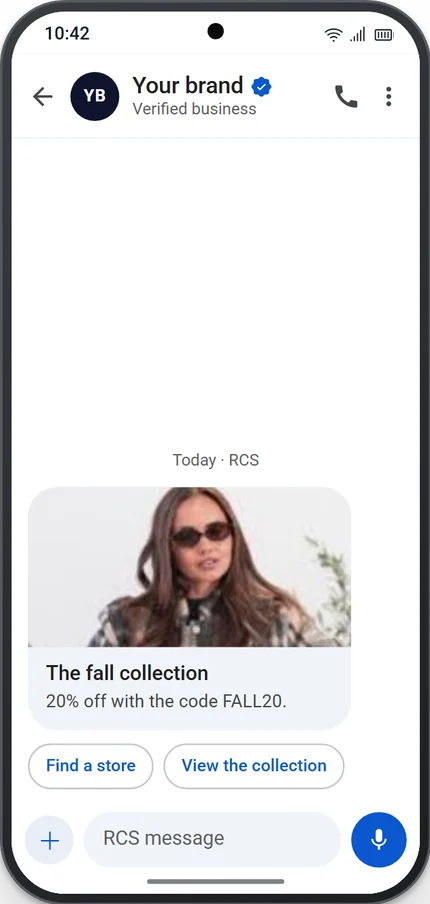
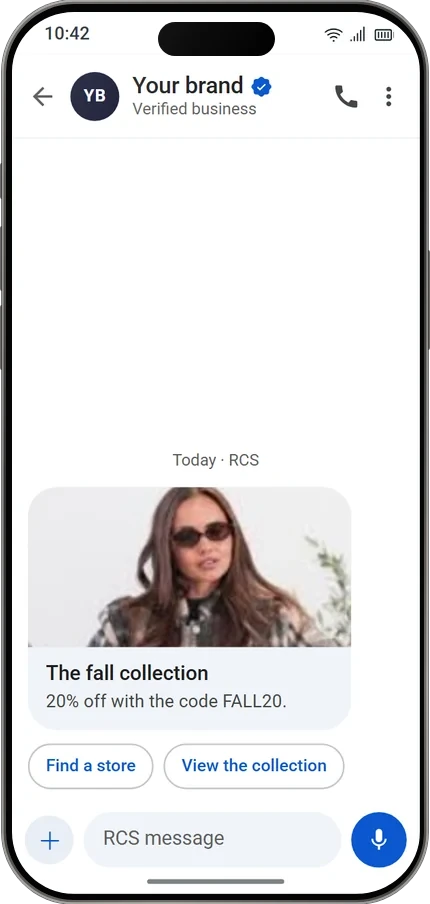
feat(vitrine): de vrais iPhone sur les pages fonctionnalités, une vraie fenêtre Claude Code
Deux retours de Julien.

Les téléphones des pages fonctionnalités, des images à plat au cadre générique,
deviennent les iPhone de la une de l'accueil : châssis en titane, bordure noire,
îlot, boutons, reflet, et la même légère 3D (rotate, jamais transform). Le cadre
est dessiné sur l'image sans déplacer l'écran, donc les gestes « 1 clic » restent
justes ; une figure qui porte un geste tourne en entier. Vingt-deux images,
français et anglais ; ?v=2 côté français.

La fenêtre Claude Code de la page développeurs n'est plus bleue : barre grise
de macOS, thème sombre de Claude Code, mascotte orange, appels
« messagingme - <outil> (MCP)(…) » et réponses JSON réelles du serveur, relevées
dans src/mcp/, tronquées par « … +N lines (ctrl+o to expand) », champ de saisie
et mode « accept edits ». Elle défile comme un terminal. Français et anglais.

Vérifié à 1440 et 390 px ; les tests de la vitrine passent (138), les pages
anglaises générées par npm run vitrine:anglais.

Changed region(s): [[0.0, 0.0, 1.0, 1.0], [0.1512, 0.0619, 0.2419, 0.1239]]

diff --git a/site/developpeurs/index.html b/site/developpeurs/index.html
@@ -179,20 +179,27 @@
          update_agent et set_agent_tools). La balise a la forme exacte que rend le produit. tests/vitrine-developpeurs.test.ts
          le vérifie. -->
     <figure class="dev-terminal" aria-label="Exemple : dans Claude Code, une seule demande crée l’agent IA, lui fait lire le site, en fait le répondeur WhatsApp et crée la bulle à coller sur le site.">
-      <div class="dev-terminal-barre" aria-hidden="true"><i></i><i></i><i></i><span>Claude Code</span></div>
-      <ol class="dev-seance" aria-hidden="true">
-        <li class="dev-demande" style="--t:.3s"><span class="dev-invite">&gt;</span><span data-commande-terminal="demarrage">/messagingme:demarrer</span></li>
-        <li class="dev-appel" style="--t:1.1s"><span class="dev-puce">●</span><span>messagingme · <b data-outil="get_setup_state">get_setup_state</b></span><small>Numéro connecté. Étape suivante : l’agent IA</small></li>
-        <li class="dev-appel" style="--t:1.9s"><span class="dev-puce">●</span><span>messagingme · <b data-outil="create_agent">create_agent</b></span><small>Agent « Accueil » créé</small></li>
-        <li class="dev-appel" style="--t:2.7s"><span class="dev-puce">●</span><span>messagingme · <b data-outil="import_site">import_site</b></span><small>monsite.fr : 14 pages lues</small></li>
-        <li class="dev-appel" style="--t:3.5s"><span class="dev-puce">●</span><span>messagingme · <b data-outil="update_agent">update_agent</b></span><small>Objectif, transferts et règle d’arrêt posés</small></li>
-        <li class="dev-appel" style="--t:4.3s"><span class="dev-puce">●</span><span>messagingme · <b data-outil="set_agent_tools">set_agent_tools</b></span><small>Recherche dans la connaissance activée</small></li>
-        <li class="dev-appel" style="--t:5.1s"><span class="dev-puce">●</span><span>messagingme · <b data-outil="activate_agent">activate_agent</b></span><small>Agent activé</small></li>
-        <li class="dev-appel" style="--t:5.9s"><span class="dev-puce">●</span><span>messagingme · <b data-outil="set_default_responder">set_default_responder</b></span><small>L’agent répond sur WhatsApp</small></li>
-        <li class="dev-appel" style="--t:6.7s"><span class="dev-puce">●</span><span>messagingme · <b data-outil="create_widget">create_widget</b></span><small>Bulle créée</small></li>
-        <li class="dev-reponse" style="--t:7.7s">C’est en place. Collez cette balise avant <code>&lt;/body&gt;</code>&nbsp;:</li>
-        <li class="dev-balise" style="--t:8.3s"><code data-balise="widget">&lt;script src="https://api.messagingme.app/widget/k7m2p9xq4r8t.js" async&gt;&lt;/script&gt;</code></li>
+      <div class="cc-barre" aria-hidden="true"><i></i><i></i><i></i><span>✳ Claude Code</span></div>
+      <div class="cc-ecran" aria-hidden="true">
+        <div class="cc-fil">
+      <ol class="dev-seance">
+        <li class="cc-tete" style="--t:0s"><span class="l"><span class="cc-c"> ▐▛███▜▌</span>   <b>Claude Code</b> <span class="cc-g">v2.1.300</span></span><span class="l"><span class="cc-c">▝▜█████▛▘</span>  <span class="cc-g">Opus 5.5 · Claude Max</span></span><span class="l"><span class="cc-c">  ▘▘ ▝▝</span>    <span class="cc-g">~/monsite</span></span></li>
+        <li class="cc-saisi" style="--t:.3s"><span class="l">&gt; <span data-commande-terminal="demarrage">/messagingme:demarrer</span></span></li>
+        <li class="cc-appel" style="--t:1.1s"><span class="l p"><span class="cc-puce">●</span><b>messagingme - <span data-outil="get_setup_state">get_setup_state</span></b> (MCP)</span><span class="l cc-g">  ⎿  {</span><span class="l cc-g">       "offre": "free",</span><span class="l cc-g">       "credit_eur": 1,</span><span class="l cc-g">     … +27 lines (ctrl+o to expand)</span></li>
+        <li class="cc-texte" style="--t:1.8s"><span class="l p"><span class="cc-puce cc-blanc">●</span>Votre numéro est connecté. Je crée l’agent IA qui répondra à vos clients, puis je lui fais lire votre site.</span></li>
+        <li class="cc-appel" style="--t:2.5s"><span class="l p"><span class="cc-puce">●</span><b>messagingme - <span data-outil="create_agent">create_agent</span></b> (MCP)(label: "Accueil")</span><span class="l cc-g">  ⎿  {</span><span class="l cc-g">       "agent": {</span><span class="l cc-g">         "id": "3f6b2c1e-8a4d-4f7b-9c2e-5d1a7e9b0c43",</span><span class="l cc-g">     … +14 lines (ctrl+o to expand)</span></li>
+        <li class="cc-appel" style="--t:3.3s"><span class="l p"><span class="cc-puce">●</span><b>messagingme - <span data-outil="import_site">import_site</span></b> (MCP)(agent_id: "3f6b2c1e-8a4d-4f7b-9c2e-5d1a7e9b0c43", url: "https://monsite.fr")</span><span class="l cc-g">  ⎿  {</span><span class="l cc-g">       "url": "https://monsite.fr/",</span><span class="l cc-g">       "ecrites": 12,</span><span class="l cc-g">     … +9 lines (ctrl+o to expand)</span></li>
+        <li class="cc-texte" style="--t:4.0s"><span class="l p"><span class="cc-puce cc-blanc">●</span>12 fiches écrites depuis votre site. Je règle l’objectif, le ton et les transferts, puis je l’active.</span></li>
+        <li class="cc-appel" style="--t:4.7s"><span class="l p"><span class="cc-puce">●</span><b>messagingme - <span data-outil="update_agent">update_agent</span></b> (MCP)(agent_id: "3f6b2c1e-8a4d-4f7b-9c2e-5d1a7e9b0c43", objectif: "Répondre aux clients de monsite.fr sur les services, les tarifs et les horaires, à partir des informations du site.", ton: "Vouvoiement, chaleureux et concis : deux ou trois phrases par réponse.", reglesTransfert: "Passer la main à un conseiller pour un devis personnalisé, une réclamation, ou dès que le client le demande.", sorties: [{"code":"question_resolue","label":"Question résolue"}])</span><span class="l cc-g">  ⎿  {</span><span class="l cc-g">       "agent": {</span><span class="l cc-g">         "id": "3f6b2c1e-8a4d-4f7b-9c2e-5d1a7e9b0c43",</span><span class="l cc-g">     … +19 lines (ctrl+o to expand)</span></li>
+        <li class="cc-appel" style="--t:5.5s"><span class="l p"><span class="cc-puce">●</span><b>messagingme - <span data-outil="set_agent_tools">set_agent_tools</span></b> (MCP)(agent_id: "3f6b2c1e-8a4d-4f7b-9c2e-5d1a7e9b0c43", outils: ["chercher_connaissance","escalader"])</span><span class="l cc-g">  ⎿  {</span><span class="l cc-g">       "outils": [</span><span class="l cc-g">         {</span><span class="l cc-g">     … +11 lines (ctrl+o to expand)</span></li>
+        <li class="cc-appel" style="--t:6.2s"><span class="l p"><span class="cc-puce">●</span><b>messagingme - <span data-outil="activate_agent">activate_agent</span></b> (MCP)(agent_id: "3f6b2c1e-8a4d-4f7b-9c2e-5d1a7e9b0c43", active: true)</span><span class="l cc-g">  ⎿  {</span><span class="l cc-g">       "agent": {</span><span class="l cc-g">         "id": "3f6b2c1e-8a4d-4f7b-9c2e-5d1a7e9b0c43",</span><span class="l cc-g">     … +19 lines (ctrl+o to expand)</span></li>
+        <li class="cc-appel" style="--t:6.9s"><span class="l p"><span class="cc-puce">●</span><b>messagingme - <span data-outil="set_default_responder">set_default_responder</span></b> (MCP)(mode: "agent", agent_id: "3f6b2c1e-8a4d-4f7b-9c2e-5d1a7e9b0c43")</span><span class="l cc-g">  ⎿  {</span><span class="l cc-g">       "mode": "agent",</span><span class="l cc-g">       "agent_id": "3f6b2c1e-8a4d-4f7b-9c2e-5d1a7e9b0c43",</span><span class="l cc-g">     … +10 lines (ctrl+o to expand)</span></li>
+        <li class="cc-appel" style="--t:7.6s"><span class="l p"><span class="cc-puce">●</span><b>messagingme - <span data-outil="create_widget">create_widget</span></b> (MCP)(nom: "Bulle WhatsApp monsite.fr", phrase: "Bonjour, je viens du site monsite.fr")</span><span class="l cc-g">  ⎿  {</span><span class="l cc-g">       "widget": {</span><span class="l cc-g">         "id": "b81e4d27-5c3a-4e9f-a6d0-2f7c9e1b8a54",</span><span class="l cc-g">     … +20 lines (ctrl+o to expand)</span></li>
+        <li class="cc-texte" style="--t:8.5s"><span class="l p"><span class="cc-puce cc-blanc">●</span>C’est en place : l’agent « Accueil » répond sur WhatsApp. Collez cette balise avant <span class="cc-code">&lt;/body&gt;</span> :</span><span class="l cc-code cc-balise" data-balise="widget">&lt;script src="https://api.messagingme.app/widget/k7m2p9xq4r8t.js" async&gt;&lt;/script&gt;</span></li>
       </ol>
+        </div>
+        <div class="cc-bas"><span class="l cc-spin">✻ Cogitating… <span class="cc-g">(esc to interrupt)</span></span><span class="cc-trait"></span><span class="l">&gt; <span class="cc-curseur"></span></span><span class="cc-trait"></span><span class="l"><span class="cc-mode">  ⏵⏵ accept edits on</span> <span class="cc-g">(shift+tab to cycle)</span></span></div>
+      </div>
     </figure>
   </section>
 

diff --git a/site/en/developers/index.html b/site/en/developers/index.html
@@ -178,20 +178,27 @@
          an active tool), and the tag has the exact shape the product returns: tests/vitrine-developpeurs.test.ts checks
          it, as on the French page. -->
     <figure class="dev-terminal" aria-label="Example: in Claude Code, a single request creates the AI agent, has it read the site, makes it the WhatsApp responder and creates the bubble to paste on the site.">
-      <div class="dev-terminal-barre" aria-hidden="true"><i></i><i></i><i></i><span>Claude Code</span></div>
-      <ol class="dev-seance" aria-hidden="true">
-        <li class="dev-demande" style="--t:.3s"><span class="dev-invite">&gt;</span><span data-commande-terminal="demarrage">/messagingme:demarrer</span></li>
-        <li class="dev-appel" style="--t:1.1s"><span class="dev-puce">●</span><span>messagingme · <b data-outil="get_setup_state">get_setup_state</b></span><small>Number connected. Next step: the AI agent</small></li>
-        <li class="dev-appel" style="--t:1.9s"><span class="dev-puce">●</span><span>messagingme · <b data-outil="create_agent">create_agent</b></span><small>Agent “Welcome” created</small></li>
-        <li class="dev-appel" style="--t:2.7s"><span class="dev-puce">●</span><span>messagingme · <b data-outil="import_site">import_site</b></span><small>mysite.com: 14 pages read</small></li>
-        <li class="dev-appel" style="--t:3.5s"><span class="dev-puce">●</span><span>messagingme · <b data-outil="update_agent">update_agent</b></span><small>Goal, handoffs and stop rule set</small></li>
-        <li class="dev-appel" style="--t:4.3s"><span class="dev-puce">●</span><span>messagingme · <b data-outil="set_agent_tools">set_agent_tools</b></span><small>Knowledge search turned on</small></li>
-        <li class="dev-appel" style="--t:5.1s"><span class="dev-puce">●</span><span>messagingme · <b data-outil="activate_agent">activate_agent</b></span><small>Agent activated</small></li>
-        <li class="dev-appel" style="--t:5.9s"><span class="dev-puce">●</span><span>messagingme · <b data-outil="set_default_responder">set_default_responder</b></span><small>The agent answers on WhatsApp</small></li>
-        <li class="dev-appel" style="--t:6.7s"><span class="dev-puce">●</span><span>messagingme · <b data-outil="create_widget">create_widget</b></span><small>Bubble created</small></li>
-        <li class="dev-reponse" style="--t:7.7s">All set. Paste this tag before <code>&lt;/body&gt;</code>:</li>
-        <li class="dev-balise" style="--t:8.3s"><code data-balise="widget">&lt;script src="https://api.messagingme.app/widget/k7m2p9xq4r8t.js" async&gt;&lt;/script&gt;</code></li>
+      <div class="cc-barre" aria-hidden="true"><i></i><i></i><i></i><span>✳ Claude Code</span></div>
+      <div class="cc-ecran" aria-hidden="true">
+        <div class="cc-fil">
+      <ol class="dev-seance">
+        <li class="cc-tete" style="--t:0s"><span class="l"><span class="cc-c"> ▐▛███▜▌</span>   <b>Claude Code</b> <span class="cc-g">v2.1.300</span></span><span class="l"><span class="cc-c">▝▜█████▛▘</span>  <span class="cc-g">Opus 5.5 · Claude Max</span></span><span class="l"><span class="cc-c">  ▘▘ ▝▝</span>    <span class="cc-g">~/mysite</span></span></li>
+        <li class="cc-saisi" style="--t:.3s"><span class="l">&gt; <span data-commande-terminal="demarrage">/messagingme:demarrer</span></span></li>
+        <li class="cc-appel" style="--t:1.1s"><span class="l p"><span class="cc-puce">●</span><b>messagingme - <span data-outil="get_setup_state">get_setup_state</span></b> (MCP)</span><span class="l cc-g">  ⎿  {</span><span class="l cc-g">       "offre": "free",</span><span class="l cc-g">       "credit_eur": 1,</span><span class="l cc-g">     … +27 lines (ctrl+o to expand)</span></li>
+        <li class="cc-texte" style="--t:1.8s"><span class="l p"><span class="cc-puce cc-blanc">●</span>Your number is connected. I’m creating the AI agent that will answer your customers, then having it read your site.</span></li>
+        <li class="cc-appel" style="--t:2.5s"><span class="l p"><span class="cc-puce">●</span><b>messagingme - <span data-outil="create_agent">create_agent</span></b> (MCP)(label: "Welcome")</span><span class="l cc-g">  ⎿  {</span><span class="l cc-g">       "agent": {</span><span class="l cc-g">         "id": "3f6b2c1e-8a4d-4f7b-9c2e-5d1a7e9b0c43",</span><span class="l cc-g">     … +14 lines (ctrl+o to expand)</span></li>
+        <li class="cc-appel" style="--t:3.3s"><span class="l p"><span class="cc-puce">●</span><b>messagingme - <span data-outil="import_site">import_site</span></b> (MCP)(agent_id: "3f6b2c1e-8a4d-4f7b-9c2e-5d1a7e9b0c43", url: "https://mysite.com")</span><span class="l cc-g">  ⎿  {</span><span class="l cc-g">       "url": "https://mysite.com/",</span><span class="l cc-g">       "ecrites": 12,</span><span class="l cc-g">     … +9 lines (ctrl+o to expand)</span></li>
+        <li class="cc-texte" style="--t:4.0s"><span class="l p"><span class="cc-puce cc-blanc">●</span>12 entries written from your site. Setting the goal, the tone and the handoffs, then turning it on.</span></li>
+        <li class="cc-appel" style="--t:4.7s"><span class="l p"><span class="cc-puce">●</span><b>messagingme - <span data-outil="update_agent">update_agent</span></b> (MCP)(agent_id: "3f6b2c1e-8a4d-4f7b-9c2e-5d1a7e9b0c43", objectif: "Answer mysite.com customers about services, prices and opening hours, using the information on the site.", ton: "Warm and concise: two or three sentences per reply.", reglesTransfert: "Hand over to an advisor for a custom quote, a complaint, or as soon as the customer asks.", sorties: [{"code":"question_resolved","label":"Question resolved"}])</span><span class="l cc-g">  ⎿  {</span><span class="l cc-g">       "agent": {</span><span class="l cc-g">         "id": "3f6b2c1e-8a4d-4f7b-9c2e-5d1a7e9b0c43",</span><span class="l cc-g">     … +19 lines (ctrl+o to expand)</span></li>
+        <li class="cc-appel" style="--t:5.5s"><span class="l p"><span class="cc-puce">●</span><b>messagingme - <span data-outil="set_agent_tools">set_agent_tools</span></b> (MCP)(agent_id: "3f6b2c1e-8a4d-4f7b-9c2e-5d1a7e9b0c43", outils: ["chercher_connaissance","escalader"])</span><span class="l cc-g">  ⎿  {</span><span class="l cc-g">       "outils": [</span><span class="l cc-g">         {</span><span class="l cc-g">     … +11 lines (ctrl+o to expand)</span></li>
+        <li class="cc-appel" style="--t:6.2s"><span class="l p"><span class="cc-puce">●</span><b>messagingme - <span data-outil="activate_agent">activate_agent</span></b> (MCP)(agent_id: "3f6b2c1e-8a4d-4f7b-9c2e-5d1a7e9b0c43", active: true)</span><span class="l cc-g">  ⎿  {</span><span class="l cc-g">       "agent": {</span><span class="l cc-g">         "id": "3f6b2c1e-8a4d-4f7b-9c2e-5d1a7e9b0c43",</span><span class="l cc-g">     … +19 lines (ctrl+o to expand)</span></li>
+        <li class="cc-appel" style="--t:6.9s"><span class="l p"><span class="cc-puce">●</span><b>messagingme - <span data-outil="set_default_responder">set_default_responder</span></b> (MCP)(mode: "agent", agent_id: "3f6b2c1e-8a4d-4f7b-9c2e-5d1a7e9b0c43")</span><span class="l cc-g">  ⎿  {</span><span class="l cc-g">       "mode": "agent",</span><span class="l cc-g">       "agent_id": "3f6b2c1e-8a4d-4f7b-9c2e-5d1a7e9b0c43",</span><span class="l cc-g">     … +10 lines (ctrl+o to expand)</span></li>
+        <li class="cc-appel" style="--t:7.6s"><span class="l p"><span class="cc-puce">●</span><b>messagingme - <span data-outil="create_widget">create_widget</span></b> (MCP)(nom: "WhatsApp bubble mysite.com", phrase: "Hello, I come from mysite.com")</span><span class="l cc-g">  ⎿  {</span><span class="l cc-g">       "widget": {</span><span class="l cc-g">         "id": "b81e4d27-5c3a-4e9f-a6d0-2f7c9e1b8a54",</span><span class="l cc-g">     … +20 lines (ctrl+o to expand)</span></li>
+        <li class="cc-texte" style="--t:8.5s"><span class="l p"><span class="cc-puce cc-blanc">●</span>All set: the “Welcome” agent answers on WhatsApp. Paste this tag before <span class="cc-code">&lt;/body&gt;</span>:</span><span class="l cc-code cc-balise" data-balise="widget">&lt;script src="https://api.messagingme.app/widget/k7m2p9xq4r8t.js" async&gt;&lt;/script&gt;</span></li>
       </ol>
+        </div>
+        <div class="cc-bas"><span class="l cc-spin">✻ Cogitating… <span class="cc-g">(esc to interrupt)</span></span><span class="cc-trait"></span><span class="l">&gt; <span class="cc-curseur"></span></span><span class="cc-trait"></span><span class="l"><span class="cc-mode">  ⏵⏵ accept edits on</span> <span class="cc-g">(shift+tab to cycle)</span></span></div>
+      </div>
     </figure>
   </section>
 

diff --git a/site/site.css b/site/site.css
@@ -858,34 +858,58 @@ h1 > .f-surtitre{display:flex;width:fit-content;line-height:1.6}
 .chantier{min-height:min(62vh,560px);align-content:center}
 
 /* ============================================================================================================
-   LA PAGE DÉVELOPPEURS (/developpeurs/ et sa jumelle /en/developers/, lot 18). Classes préfixées dev- : rien ici ne
-   touche les autres pages. La une montre une séance Claude Code rejouée (site.js pose `joue` puis `sortie`, en
-   boucle, tant qu'elle est à l'écran) ; sans script, ou pour qui a demandé moins de mouvement, la séance reste
-   affichée, finie.
+   LA PAGE DÉVELOPPEURS (/developpeurs/ et sa jumelle /en/developers/, lot 18). Classes préfixées dev- (et cc- pour
+   la fenêtre Claude Code) : rien ici ne touche les autres pages. La une montre une séance Claude Code rejouée
+   (site.js montre chaque entrée à son heure, puis pose `fini` et `sortie`, en boucle, tant qu'elle est à l'écran) ;
+   sans script, ou pour qui a demandé moins de mouvement, la séance reste affichée, finie.
    ============================================================================================================ */
 /* Deux colonnes égales au bureau seulement : sous 960 px, la une des pages fonctionnalités passe sur une colonne. */
 @media (min-width:961px){.dev-une{grid-template-columns:minmax(0,1fr) minmax(0,1fr)}}
 .dev-une h1{font-size:clamp(2.2rem,3.6vw,3rem)}
 .dev-etapes{padding-top:16px}
 .dev-code,.dev-offre{padding:88px 0}
-.dev-terminal{margin:0;border-radius:16px;background:var(--code-bg);border:1px solid var(--line);box-shadow:0 40px 80px -40px rgb(0 0 0 / .8);overflow:hidden;font-family:var(--mono);font-size:.8rem;line-height:1.6;color:var(--code-ink)}
-.dev-terminal-barre{display:flex;align-items:center;gap:7px;padding:12px 16px;border-bottom:1px solid var(--line);color:var(--code-muted);font-size:.75rem}
-.dev-terminal-barre i{width:11px;height:11px;border-radius:50%;background:rgb(255 255 255 / .16)}
-.dev-terminal-barre span{margin-left:8px}
-.dev-seance{list-style:none;margin:0;padding:18px 20px 22px;display:grid;gap:10px}
-.dev-seance li{min-width:0;overflow-wrap:anywhere}
-.dev-demande{color:#FFFFFF}
-.dev-invite{margin-right:.7em;color:var(--action-ink)}
-.dev-appel{display:grid;grid-template-columns:auto minmax(0,1fr);column-gap:.7em}
-.dev-puce{color:#17C74E}
-.dev-appel b{font-weight:600;color:var(--action-ink)}
-.dev-appel small{grid-column:2;color:var(--code-muted);font-size:inherit}
-.dev-reponse code{color:var(--code-muted)}
-.dev-balise code{display:block;padding:10px 12px;border-radius:10px;background:rgb(255 255 255 / .06);color:#A5E8B5}
+/* La fenêtre est celle de Claude Code, pas une fenêtre « à nous » (Julien, 2026-10-19 : la version bleue « ne
+   ressemble pas du tout à Claude Code ») : la barre grise de macOS et ses trois feux, le thème sombre de Claude Code
+   (couleurs relevées du film des cas d'usage, ~/engageme-motion/engageme-cas-agent-app), la mascotte orange, les
+   appels `messagingme - <outil> (MCP)(…)` et leurs réponses JSON tronquées, le champ de saisie entre deux traits et
+   le mode « accept edits ». La fenêtre a une hauteur fixe et DÉFILE comme un terminal : site.js montre chaque entrée
+   à son `--t` et descend sur la dernière ligne. */
+.dev-terminal{--cc-fond:#151515;--cc-texte:#E8E8E8;--cc-gris:#8E8E8E;--cc-claude:#D77757;--cc-vert:#4EBA65;--cc-saisi:#2B2B2B;--cc-mode:#AF87FF;--cc-trait:#3F3F3F;--cc-code:#B1B9F9;margin:0;border-radius:12px;overflow:hidden;background:var(--cc-fond);box-shadow:0 0 0 1px rgb(255 255 255 / .12),0 50px 110px -30px rgb(0 0 0 / .9);color:var(--cc-texte)}
+.cc-barre{position:relative;display:flex;align-items:center;gap:8px;height:38px;padding:0 14px;background:#2A2A2C;border-bottom:1px solid #000}
+.cc-barre i{width:12px;height:12px;border-radius:50%;background:#FF5F57}
+.cc-barre i:nth-child(2){background:#FEBC2E}
+.cc-barre i:nth-child(3){background:#28C840}
+.cc-barre span{position:absolute;left:0;right:0;text-align:center;font:500 13px/38px system-ui,-apple-system,"Segoe UI",sans-serif;color:#9A9A9A;pointer-events:none}
+.cc-ecran{display:flex;flex-direction:column;height:560px;padding:14px 18px 10px;font:400 12.5px/1.45 var(--mono);overflow-wrap:anywhere}
+.cc-fil{flex:1;min-height:0;overflow:hidden}
+.dev-seance{list-style:none;margin:0;padding:0}
+.dev-seance > li + li{margin-top:.75em}
+/* Seule la LIGNE garde ses espaces (indentation du JSON, mascotte) : sur toute la fenêtre, les retours du code
+   source entre deux entrées deviendraient des lignes vides. */
+.cc-ecran .l{display:block;min-height:1.45em;white-space:pre-wrap}
+.cc-ecran .l.p{padding-left:1.3em;text-indent:-1.3em}
+.cc-ecran b{font-weight:700}
+.cc-g{color:var(--cc-gris)}
+.cc-c{color:var(--cc-claude)}
+.cc-puce{display:inline-block;width:1.3em;text-indent:0;color:var(--cc-vert)}
+.cc-puce.cc-blanc{color:var(--cc-texte)}
+.cc-saisi .l{margin:0 -8px;padding:2px 8px;background:var(--cc-saisi);color:#D6D6D6}
+.cc-code{color:var(--cc-code)}
+.cc-balise{padding-left:1.3em}
+.cc-bas{flex:none;padding-top:6px}
+.cc-ecran .cc-spin{display:none;color:var(--cc-claude)}
+.cc-trait{display:block;border-top:1px solid var(--cc-trait);margin:6px 0}
+.cc-mode{color:var(--cc-mode)}
+.cc-curseur{display:inline-block;width:.6em;height:1.15em;vertical-align:-.22em;background:#D0D0D0}
+@media (max-width:640px){.cc-ecran{height:470px;padding:12px 12px 8px;font-size:10.5px}}
 @media (prefers-reduced-motion:no-preference){
-  .js .dev-terminal:not(.statique) .dev-seance > li{opacity:0}
-  .js .dev-terminal.joue .dev-seance > li{animation:msg-entre .45s cubic-bezier(.16,1,.3,1) var(--t) both}
-  .js .dev-terminal.sortie .dev-seance > li{animation:msg-sort .4s ease-in both}
+  .js .dev-terminal:not(.statique) .dev-seance > li:not(.vu){display:none}
+  .js .dev-terminal .dev-seance > li.vu{animation:cc-ligne .2s ease-out both}
+  .js .dev-terminal.joue:not(.fini) .cc-ecran .cc-spin{display:block}
+  .js .dev-terminal.sortie .cc-fil{animation:msg-sort .5s ease-in both}
+  .js .dev-terminal .cc-curseur{animation:cc-clignote 1.1s steps(1) infinite}
+  @keyframes cc-ligne{from{opacity:0}to{opacity:1}}
+  @keyframes cc-clignote{50%{opacity:0}}
 }
 /* Les trois étapes, en trois cartes ; la commande revient à la ligne dans sa carte plutôt que de défiler. */
 .dev-pas{list-style:none;margin:40px 0 0;padding:0;display:grid;grid-template-columns:repeat(3,minmax(0,1fr));gap:24px}
@@ -962,3 +986,21 @@ h1 > .f-surtitre{display:flex;width:fit-content;line-height:1.6}
 .tarifs-detail-grille{display:grid;grid-template-columns:repeat(2,minmax(0,1fr));gap:56px}
 @media (max-width:1000px){.tarifs-grille{grid-template-columns:minmax(0,1fr);max-width:560px}}
 @media (max-width:900px){.tarifs-detail-grille{grid-template-columns:minmax(0,1fr);gap:40px}}
+
+/* ============================================================================================================
+   LES TÉLÉPHONES DES PAGES FONCTIONNALITÉS, EN IPHONE (2026-10-19, Julien : « la même qualité que la une de
+   l'accueil »). L'image porte le châssis (`encadrer-iphone.cjs` de l'atelier, qui dessine l'iPhone autour de l'écran
+   sans le déplacer) ; la page leur donne la légère 3D de l'accueil, par `rotate` et jamais par `transform`, que
+   l'entrée `.entre` anime. Une figure qui porte un geste dessiné par-dessus (`.f-clic`) tourne EN ENTIER, pour que
+   le geste reste collé à l'écran ; dans le schéma WhatsApp et RCS et dans les étapes, chaque téléphone tourne.
+   ============================================================================================================ */
+.f-une{perspective:1900px}
+.f-une > .f-duo{rotate:5 -14 .6 14.9deg}
+.f-duo img{filter:drop-shadow(0 40px 50px rgb(0 0 0 / .62))}
+.cx{perspective:1900px}
+.cx .cx-wa{rotate:5 -14 .6 14.9deg}
+.cx .cx-rcs{rotate:5 14 -.6 14.9deg}
+.f-etape{perspective:1900px}
+.f-etape img.f-tel{rotate:5 -14 .6 14.9deg}
+.js .f-ecran{perspective:1900px}
+.js .f-ecran img.f-tel{rotate:5 -14 .6 14.9deg}

diff --git a/site/fonctionnalites/chaines-whatsapp/index.html b/site/fonctionnalites/chaines-whatsapp/index.html
@@ -188,10 +188,10 @@
     </div>
     <figure class="f-duo f-clic" style="--tap-x:26.7%;--tap-y:75.9%;--label-x:47%;--label-y:64%;--ouvre:-46% 72%">
       <div class="f-clic-tel entre" style="--d:.1s">
-        <img src="/img/chaine-fil.webp" width="560" height="1177" alt="Une chaîne WhatsApp : l’abonné appuie sur Commencer à discuter, sous la publication de la marque" fetchpriority="high">
-        <img class="f-clic-appui" src="/img/chaine-bouton.webp" width="560" height="1177" alt="">
+        <img src="/img/chaine-fil.webp?v=2" width="560" height="1177" alt="Une chaîne WhatsApp : l’abonné appuie sur Commencer à discuter, sous la publication de la marque" fetchpriority="high">
+        <img class="f-clic-appui" src="/img/chaine-bouton.webp?v=2" width="560" height="1177" alt="">
       </div>
-      <img class="f-clic-ouvre" src="/img/chaine-conversation.webp" width="560" height="1177" alt="La conversation qui s’ouvre d’un clic : le message de l’abonné est déjà écrit, et il reçoit son code">
+      <img class="f-clic-ouvre" src="/img/chaine-conversation.webp?v=2" width="560" height="1177" alt="La conversation qui s’ouvre d’un clic : le message de l’abonné est déjà écrit, et il reçoit son code">
       <div class="f-clic-geste" aria-hidden="true">
         <svg viewBox="0 0 1000 1168.86">
           <rect class="f-clic-bulle" x="629" y="803" width="321" height="66" rx="22"/>
@@ -236,18 +236,18 @@
           <li class="f-etape">
             <span class="f-num">2</span>
             <div><h3>Vos abonnés appuient sur « Commencer à discuter »</h3><p>Le bouton sous la publication ouvre WhatsApp avec un message déjà écrit : il ne reste qu’à l’envoyer.</p></div>
-            <img class="f-tel f-arrondi" src="/img/chaine-bouton.webp" width="560" height="1177" alt="Un abonné appuie sur Commencer à discuter sous la publication" loading="lazy">
+            <img class="f-tel f-arrondi" src="/img/chaine-bouton.webp?v=2" width="560" height="1177" alt="Un abonné appuie sur Commencer à discuter sous la publication" loading="lazy">
           </li>
           <li class="f-etape">
             <span class="f-num">3</span>
             <div><h3>Votre scénario répond en <span style="white-space:nowrap">tête-à-tête</span></h3><p>Le message déclenche le scénario rattaché au bouton : un code, une question, puis votre équipe ou un agent IA prend la suite.</p></div>
-            <img class="f-tel" src="/img/chaine-conversation.webp" width="560" height="1177" alt="La conversation ouverte depuis la chaîne : l’abonné reçoit son code" loading="lazy">
+            <img class="f-tel" src="/img/chaine-conversation.webp?v=2" width="560" height="1177" alt="La conversation ouverte depuis la chaîne : l’abonné reçoit son code" loading="lazy">
           </li>
         </ol>
         <figure class="f-ecran" aria-hidden="true">
           <img class="actif" src="/img/chaine-console.webp" width="1300" height="963" alt="" loading="lazy">
-          <img class="f-tel f-arrondi" src="/img/chaine-bouton.webp" width="560" height="1177" alt="" loading="lazy">
-          <img class="f-tel" src="/img/chaine-conversation.webp" width="560" height="1177" alt="" loading="lazy">
+          <img class="f-tel f-arrondi" src="/img/chaine-bouton.webp?v=2" width="560" height="1177" alt="" loading="lazy">
+          <img class="f-tel" src="/img/chaine-conversation.webp?v=2" width="560" height="1177" alt="" loading="lazy">
         </figure>
       </div>
     </div>

diff --git a/site/fonctionnalites/publicites-click-to-whatsapp/index.html b/site/fonctionnalites/publicites-click-to-whatsapp/index.html
@@ -188,10 +188,10 @@
     </div>
     <figure class="f-duo f-clic" style="--tap-x:36.9%;--tap-y:60.8%;--label-x:37%;--label-y:53.5%;--ouvre:-25% 55%">
       <div class="f-clic-tel entre" style="--d:.1s">
-        <img src="/img/ctwa-fil.webp" width="560" height="1175" alt="Une publicité Click-to-WhatsApp dans un fil d’actualité : le prospect appuie sur Envoyer un message" fetchpriority="high">
-        <svg class="f-clic-appui" viewBox="0 0 560 1175" aria-hidden="true"><path class="f-clic-voile" fill-rule="evenodd" d="M55 15H505A40 40 0 0 1 545 55V1120A40 40 0 0 1 505 1160H55A40 40 0 0 1 15 1120V55A40 40 0 0 1 55 15ZM259 797H516A16 16 0 0 1 532 813V844A16 16 0 0 1 516 860H259A16 16 0 0 1 243 844V813A16 16 0 0 1 259 797Z"/></svg>
+        <img src="/img/ctwa-fil.webp?v=2" width="560" height="1175" alt="Une publicité Click-to-WhatsApp dans un fil d’actualité : le prospect appuie sur Envoyer un message" fetchpriority="high">
+        <svg class="f-clic-appui" viewBox="0 0 560 1175" aria-hidden="true"><path class="f-clic-voile" fill-rule="evenodd" d="M97 11H464A83 83 0 0 1 547 94V1080A83 83 0 0 1 464 1163H97A83 83 0 0 1 14 1080V94A83 83 0 0 1 97 11ZM259 797H516A16 16 0 0 1 532 813V844A16 16 0 0 1 516 860H259A16 16 0 0 1 243 844V813A16 16 0 0 1 259 797Z"/></svg>
       </div>
-      <img class="f-clic-ouvre" src="/img/ctwa-conversation.webp" width="560" height="1175" alt="La conversation WhatsApp qui s’ouvre d’un clic : le message du prospect est déjà écrit, avec la publicité en référence, et il reçoit son code">
+      <img class="f-clic-ouvre" src="/img/ctwa-conversation.webp?v=2" width="560" height="1175" alt="La conversation WhatsApp qui s’ouvre d’un clic : le message du prospect est déjà écrit, avec la publicité en référence, et il reçoit son code">
       <div class="f-clic-geste" aria-hidden="true">
         <svg viewBox="0 0 1000 1167.14">
           <rect class="f-clic-bulle" x="578" y="732" width="373" height="165" rx="22"/>
@@ -247,9 +247,9 @@
         <p class="f-texte">Un formulaire, un bandeau de cookies, et le prospect repart. Avec Click-to-WhatsApp, un appui sur la pub ouvre la conversation, et votre scénario répond aussitôt.</p>
       </div>
       <figure class="f-avant-visuel">
-        <img src="/img/ctwa-avant-fil.webp" width="480" height="1008" alt="Une publicité classique, dont le bouton renvoie vers un site" loading="lazy">
+        <img src="/img/ctwa-avant-fil.webp?v=2" width="480" height="1008" alt="Une publicité classique, dont le bouton renvoie vers un site" loading="lazy">
         <svg class="ic" aria-hidden="true"><use href="#i-fleche"/></svg>
-        <img src="/img/ctwa-avant-landing.webp" width="480" height="1008" alt="Le formulaire d’inscription qui attend le prospect sur le site" loading="lazy">
+        <img src="/img/ctwa-avant-landing.webp?v=2" width="480" height="1008" alt="Le formulaire d’inscription qui attend le prospect sur le site" loading="lazy">
       </figure>
     </div>
   </section>

diff --git a/site/site.js b/site/site.js
@@ -102,18 +102,32 @@
     });
   });
 
+  // Le terminal défile comme un vrai : chaque entrée apparaît à son `--t`, et la fenêtre suit la dernière ligne.
+  // Sans IntersectionObserver, ou pour qui a demandé moins de mouvement, la séance est affichée finie, la fenêtre
+  // descendue sur sa fin (la balise de la bulle).
   var t = document.querySelector('.dev-terminal');
-  if (!t || matchMedia('(prefers-reduced-motion: reduce)').matches) return;
-  if (!('IntersectionObserver' in window)) { t.classList.add('statique'); return; }
+  if (!t) return;
+  var fil = t.querySelector('.cc-fil'), entrees = [].slice.call(t.querySelectorAll('.dev-seance > li'));
+  var enBas = function (doux) { if (fil) fil.scrollTo({ top: fil.scrollHeight, behavior: doux ? 'smooth' : 'auto' }); };
+  if (matchMedia('(prefers-reduced-motion: reduce)').matches || !('IntersectionObserver' in window)) {
+    t.classList.add('statique'); enBas(false); return;
+  }
+  var quand = function (li) { return (parseFloat(li.style.getPropertyValue('--t')) || 0) * 1000; };
+  var fin = Math.max.apply(null, entrees.map(quand));
   var minuteries = [], actif = false;
   function arreter() { minuteries.forEach(clearTimeout); minuteries = []; }
   function tour() {
     arreter();
-    t.classList.remove('joue', 'sortie');
-    void t.offsetWidth;
+    t.classList.remove('sortie', 'fini');
+    entrees.forEach(function (li) { li.classList.remove('vu'); });
     t.classList.add('joue');
-    minuteries.push(setTimeout(function () { t.classList.add('sortie'); }, 13000));
-    minuteries.push(setTimeout(tour, 13600));
+    enBas(false);
+    entrees.forEach(function (li) {
+      minuteries.push(setTimeout(function () { li.classList.add('vu'); enBas(true); }, quand(li)));
+    });
+    minuteries.push(setTimeout(function () { t.classList.add('fini'); }, fin + 400));
+    minuteries.push(setTimeout(function () { t.classList.add('sortie'); }, fin + 4600));
+    minuteries.push(setTimeout(tour, fin + 5200));
   }
   new IntersectionObserver(function (e) {
     if (e[0].isIntersecting && !actif) { actif = true; tour(); }

diff --git a/site/en/features/click-to-whatsapp-ads/index.html b/site/en/features/click-to-whatsapp-ads/index.html
@@ -190,7 +190,7 @@
     <figure class="f-duo f-clic" style="--tap-x:36.9%;--tap-y:60.8%;--label-x:37%;--label-y:53.5%;--ouvre:-25% 55%">
       <div class="f-clic-tel entre" style="--d:.1s">
         <img src="/img/ctwa-fil-en.webp" width="560" height="1175" alt="A Click-to-WhatsApp ad in a news feed: the prospect taps Send message" fetchpriority="high">
-        <svg class="f-clic-appui" viewBox="0 0 560 1175" aria-hidden="true"><path class="f-clic-voile" fill-rule="evenodd" d="M55 15H505A40 40 0 0 1 545 55V1120A40 40 0 0 1 505 1160H55A40 40 0 0 1 15 1120V55A40 40 0 0 1 55 15ZM259 797H516A16 16 0 0 1 532 813V844A16 16 0 0 1 516 860H259A16 16 0 0 1 243 844V813A16 16 0 0 1 259 797Z"/></svg>
+        <svg class="f-clic-appui" viewBox="0 0 560 1175" aria-hidden="true"><path class="f-clic-voile" fill-rule="evenodd" d="M97 11H464A83 83 0 0 1 547 94V1080A83 83 0 0 1 464 1163H97A83 83 0 0 1 14 1080V94A83 83 0 0 1 97 11ZM259 797H516A16 16 0 0 1 532 813V844A16 16 0 0 1 516 860H259A16 16 0 0 1 243 844V813A16 16 0 0 1 259 797Z"/></svg>
       </div>
       <img class="f-clic-ouvre" src="/img/ctwa-conversation-en.webp" width="560" height="1175" alt="The WhatsApp conversation that opens in one tap: the prospect’s message is already written, with the ad as reference, and they get their code">
       <div class="f-clic-geste" aria-hidden="true">

diff --git a/site/fonctionnalites/whatsapp-et-rcs/index.html b/site/fonctionnalites/whatsapp-et-rcs/index.html
@@ -188,8 +188,8 @@
     </div>
     <figure class="f-large" role="img" aria-label="Léa reçoit la campagne sur WhatsApp, Thomas la reçoit en RCS : le même message, parti de Messaging Me, chacun sur son canal">
       <div class="cx entre" style="--d:.2s">
-        <img class="cx-tel cx-wa" src="/img/canaux-tel-whatsapp.webp" width="430" height="903" alt="" fetchpriority="high">
-        <img class="cx-tel cx-rcs" src="/img/canaux-tel-rcs.webp" width="430" height="903" alt="" fetchpriority="high">
+        <img class="cx-tel cx-wa" src="/img/canaux-tel-whatsapp.webp?v=2" width="430" height="903" alt="" fetchpriority="high">
+        <img class="cx-tel cx-rcs" src="/img/canaux-tel-rcs.webp?v=2" width="430" height="903" alt="" fetchpriority="high">
         <svg class="cx-liens cx-bureau" viewBox="0 0 1000 482.67" aria-hidden="true">
           <path class="cx-fil" d="M424 223H236"/>
           <path class="cx-fil" d="M576 223H764"/>

diff --git a/site/fonctionnalites/conversations-en-actions/index.html b/site/fonctionnalites/conversations-en-actions/index.html
@@ -187,8 +187,8 @@
       </div>
     </div>
     <figure class="f-duo">
-      <img class="entre" style="--d:.1s" src="/img/crm-conversation.webp" width="560" height="1177" alt="Une conversation WhatsApp : la cliente hésite entre deux modèles et demande à être rappelée" fetchpriority="high">
-      <img class="entre" style="--d:.35s" src="/img/crm-rcs.webp" width="560" height="1177" alt="Une conversation RCS : un client mécontent d’une commande qui n’arrive pas">
+      <img class="entre" style="--d:.1s" src="/img/crm-conversation.webp?v=2" width="560" height="1177" alt="Une conversation WhatsApp : la cliente hésite entre deux modèles et demande à être rappelée" fetchpriority="high">
+      <img class="entre" style="--d:.35s" src="/img/crm-rcs.webp?v=2" width="560" height="1177" alt="Une conversation RCS : un client mécontent d’une commande qui n’arrive pas">
     </figure>
   </section>
 

diff --git a/docs/superpowers/plans/2026-09-28-vitrine-fonctionnalites.md b/docs/superpowers/plans/2026-09-28-vitrine-fonctionnalites.md
@@ -135,9 +135,29 @@ Le même jour, sur ses retours :
   dit), « Se connecter » en vert comme « Nous contacter », les boutons en pilule, plus d'espace au-dessus de la une.
   Plus large, le bandeau passe au burger jusqu'à 1000 px.
 
+## Ajout du 2026-10-19 : de vrais iPhone, et une vraie fenêtre Claude Code
+
+Deux retours de Julien. **Méthode : en direct**, comme le reste du plan (pages statiques, réversibles).
+- Les téléphones des pages fonctionnalités, des images à plat au cadre générique, deviennent les iPhone de la une de
+  l'accueil : châssis en titane, bordure noire, îlot, boutons, reflet, et la même légère 3D (`rotate`, jamais
+  `transform`). Le cadre est DESSINÉ sur l'image (`encadrer-iphone.cjs`, rangé dans l'atelier `~/engageme-motion` à
+  côté de `rendre-images.cjs`) sans déplacer l'écran : les gestes « 1 clic », posés en pourcentages de l'image, restent
+  justes. Une figure qui porte un geste tourne en entier. Vingt-deux images, français et anglais, servies avec
+  `?v=2` côté français (l'outil de traduction retire le `?v=` des images anglaises : celles-ci se rafraîchissent en un
+  jour chez qui les avait déjà vues). Une image refaite à plat par `rendre-images.cjs` doit repasser par
+  `encadrer-iphone.cjs`.
+- La fenêtre Claude Code de la page développeurs (bleue, « ne ressemble pas du tout à Claude Code ») reprend le dessin
+  du film des cas d'usage : barre grise de macOS, thème sombre de Claude Code, mascotte orange, appels
+  `messagingme - <outil> (MCP)(…)`, réponses JSON réelles du serveur (relevées dans `src/mcp/`) tronquées par
+  « … +N lines (ctrl+o to expand) », champ de saisie et mode « accept edits ». Elle défile comme un terminal ;
+  `tests/vitrine-developpeurs.test.ts` tient toujours les outils, leur ordre et la balise.
+
+Restent à plat, à trancher par Julien : les écrans de la console (Chaîne, fiche CRM, Inbox).
+
 ## Essai réel qui clôt
 
 Julien parcourt les deux pages en production, sur ordinateur et sur son téléphone : il ouvre le menu, lance les
 deux films, et clique « Demander une démo ». Pour le formulaire : il envoie un message depuis `/contact/` sur son
 téléphone, le reçoit dans sa boîte, et sa réponse part à l'adresse saisie. Pour les six cartes : il clique
-chacune depuis l'accueil, sur son téléphone, et relit les deux pages neuves.
+chacune depuis l'accueil, sur son téléphone, et relit les deux pages neuves. Pour les iPhone et la fenêtre Claude
+Code : il ouvre les quatre pages fonctionnalités et la page développeurs, sur ordinateur et sur son téléphone.
